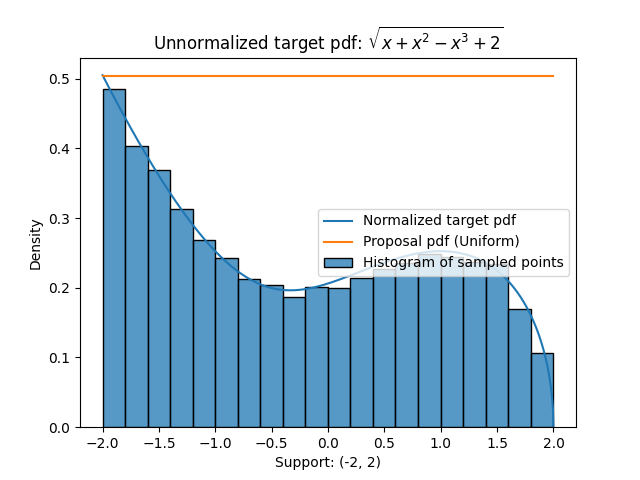
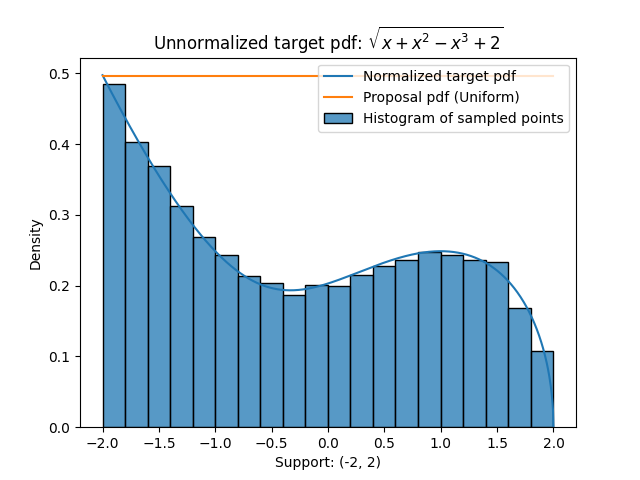
Minor changes

diff --git a/Medium/plot.py b/Medium/plot.py
@@ -34,7 +34,7 @@ if __name__ == '__main__':
     ret_arr = read_data_from_file(filename)
     sns.histplot(ret_arr, ax=ax, stat='density', label="Histogram of sampled points")
 
-    ax.legend(loc="center right")
+    ax.legend(loc="upper right")
     ax.set_title("Unnormalized target pdf: ${\sqrt{x + x^2 - x^3 + 2}}$")
     ax.set_xlabel("Support: (-2, 2)")
     plt.show()
